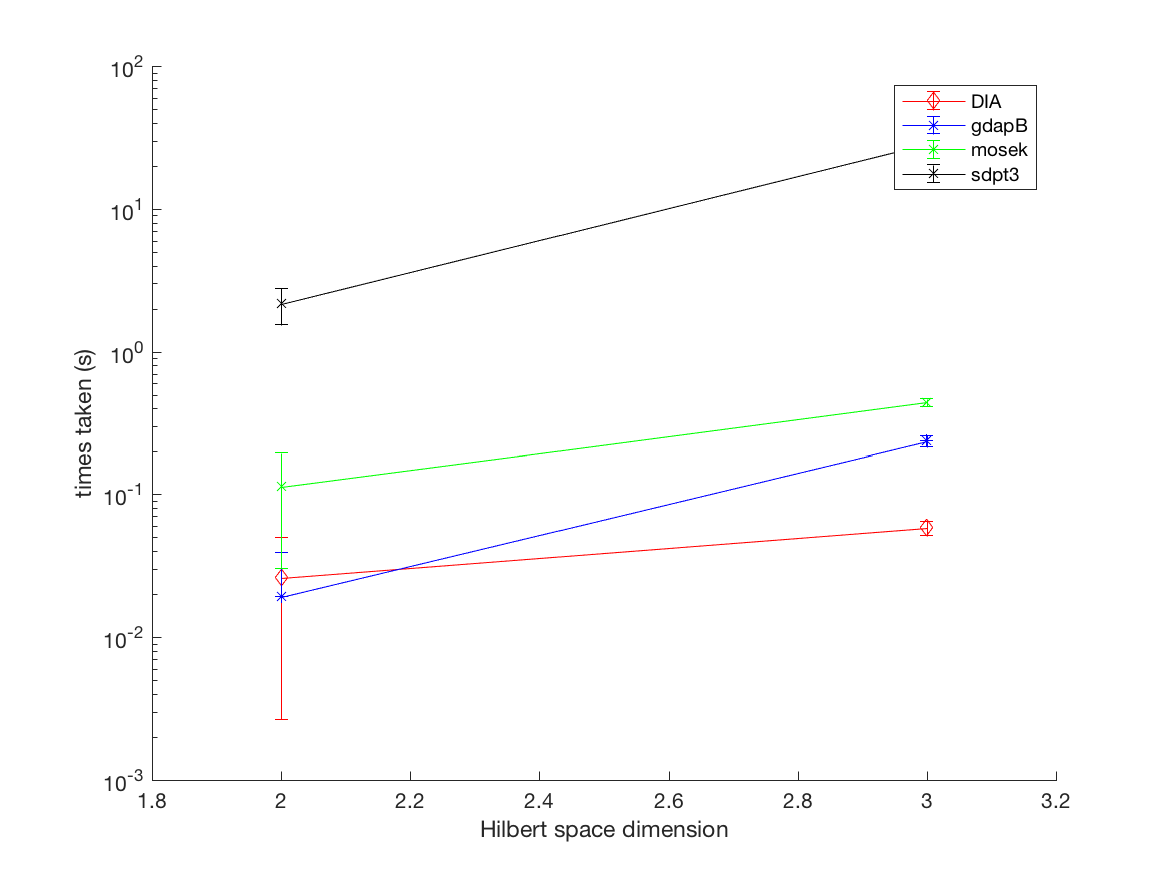
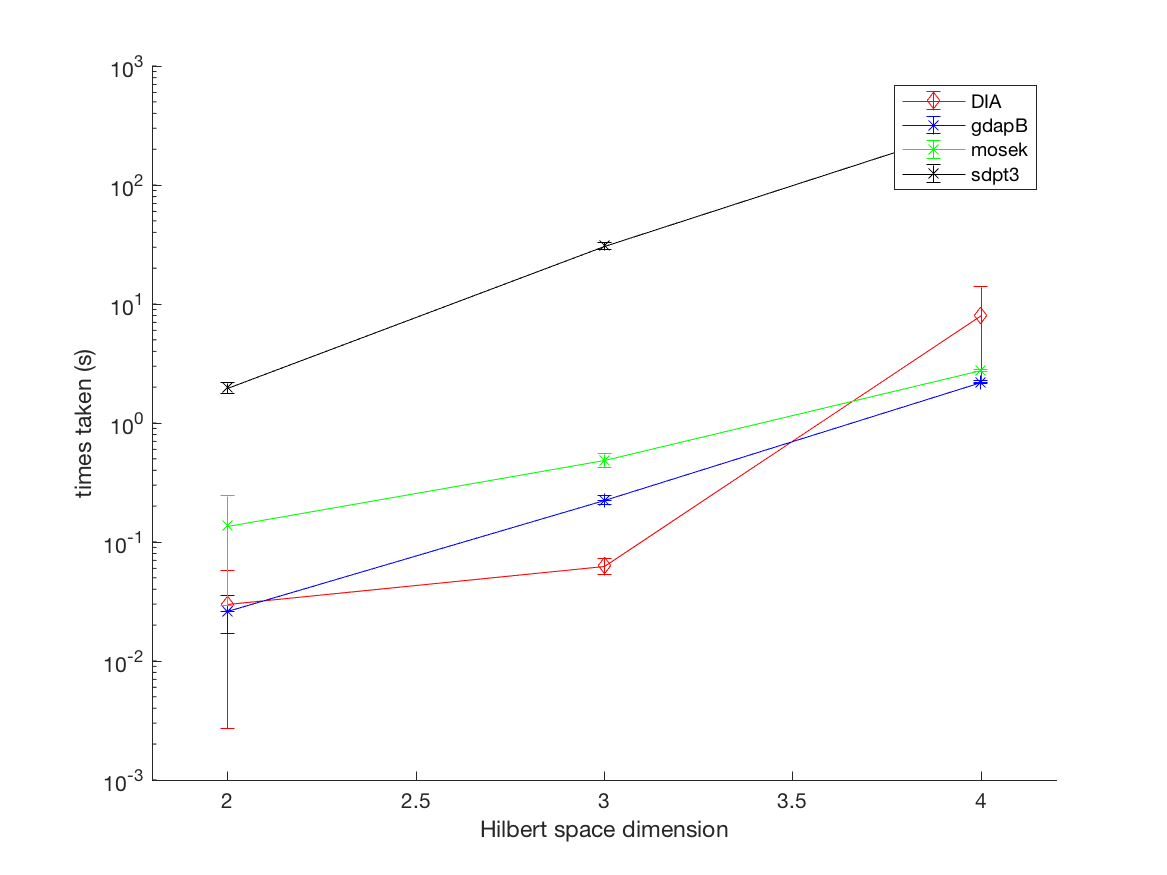
introduced sparse matrices

diff --git a/gdapB.m b/gdapB.m
@@ -13,10 +13,11 @@ function [ choi_ml_vec,solution, costs ] = gdapB( A,n )
         B = kron(eye(d),e); 
         M = M + kron(B,B);
     end
+    M = sparse(M);
     MdagM = M'*M; 
     
     
-    choi_init = eye(d*d)/d;
+    choi_init = sparse(eye(d*d)/d);
     choi_init = reshape(choi_init,[],1);
     solution  = {choi_init};
 %     stepsize      = 1.0/(1e3*d);
@@ -27,7 +28,7 @@ function [ choi_ml_vec,solution, costs ] = gdapB( A,n )
         costs(i)     = cost(A,n,solution{i});
         D{i}         = CPTP_project(solution{i}-(1/mu)*gradient(A,n,solution{i}), MdagM, M)-solution{i};
 %         sum(svd(D{i}))
-        if sum(svd(D{i}))<1e-4
+        if sum(svd(D{i}))<1e-5
 %         if norm(D{i})<1e-3
 % %             i
             break

diff --git a/launch_solvers.m b/launch_solvers.m
@@ -5,9 +5,9 @@ addpath('./QETLAB-0.9/helpers')
 ensemble_size = 10;
 
 
-for method={'sdpt3','mosek','gdapB','DIA'}
-% for method={'gdapB'}
-    for d=2:3
+% for method={'sdpt3','mosek','gdapB','DIA'}
+for method={'gdapB'}
+    for d=4:4
         fprintf(char(10));
         fprintf('%d :', d);
 

diff --git a/make_plots.m b/make_plots.m
@@ -1,6 +1,6 @@
 % read in 100 running times for each method, for each d.
 clear;close all;
-dmax = 3;
+dmax = 4;
 ensemble_size =10;
 gdapB_times = zeros(ensemble_size,dmax);
 mosek_times = zeros(ensemble_size,dmax);

diff --git a/GGM_IO.m b/GGM_IO.m
@@ -36,6 +36,7 @@ function [ A ] = GGM_IO( d )
         end
     end
 
+    A = sparse(A);
     
 end
 
